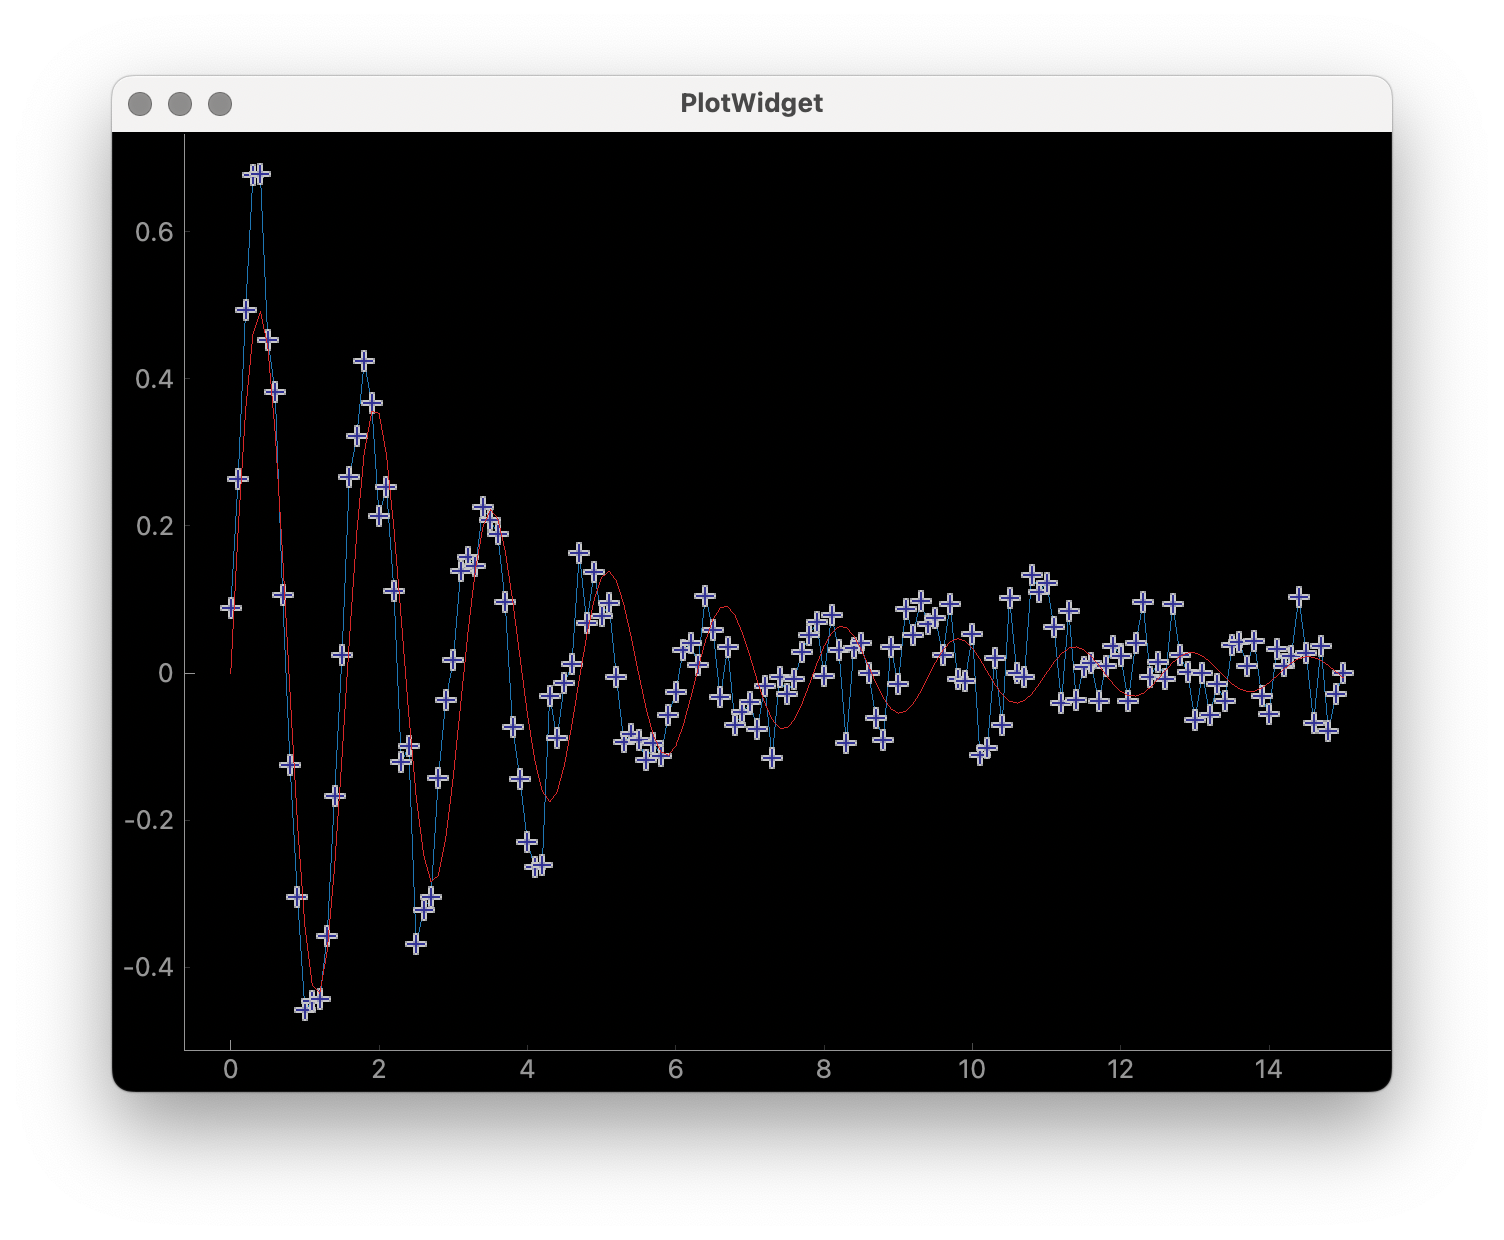
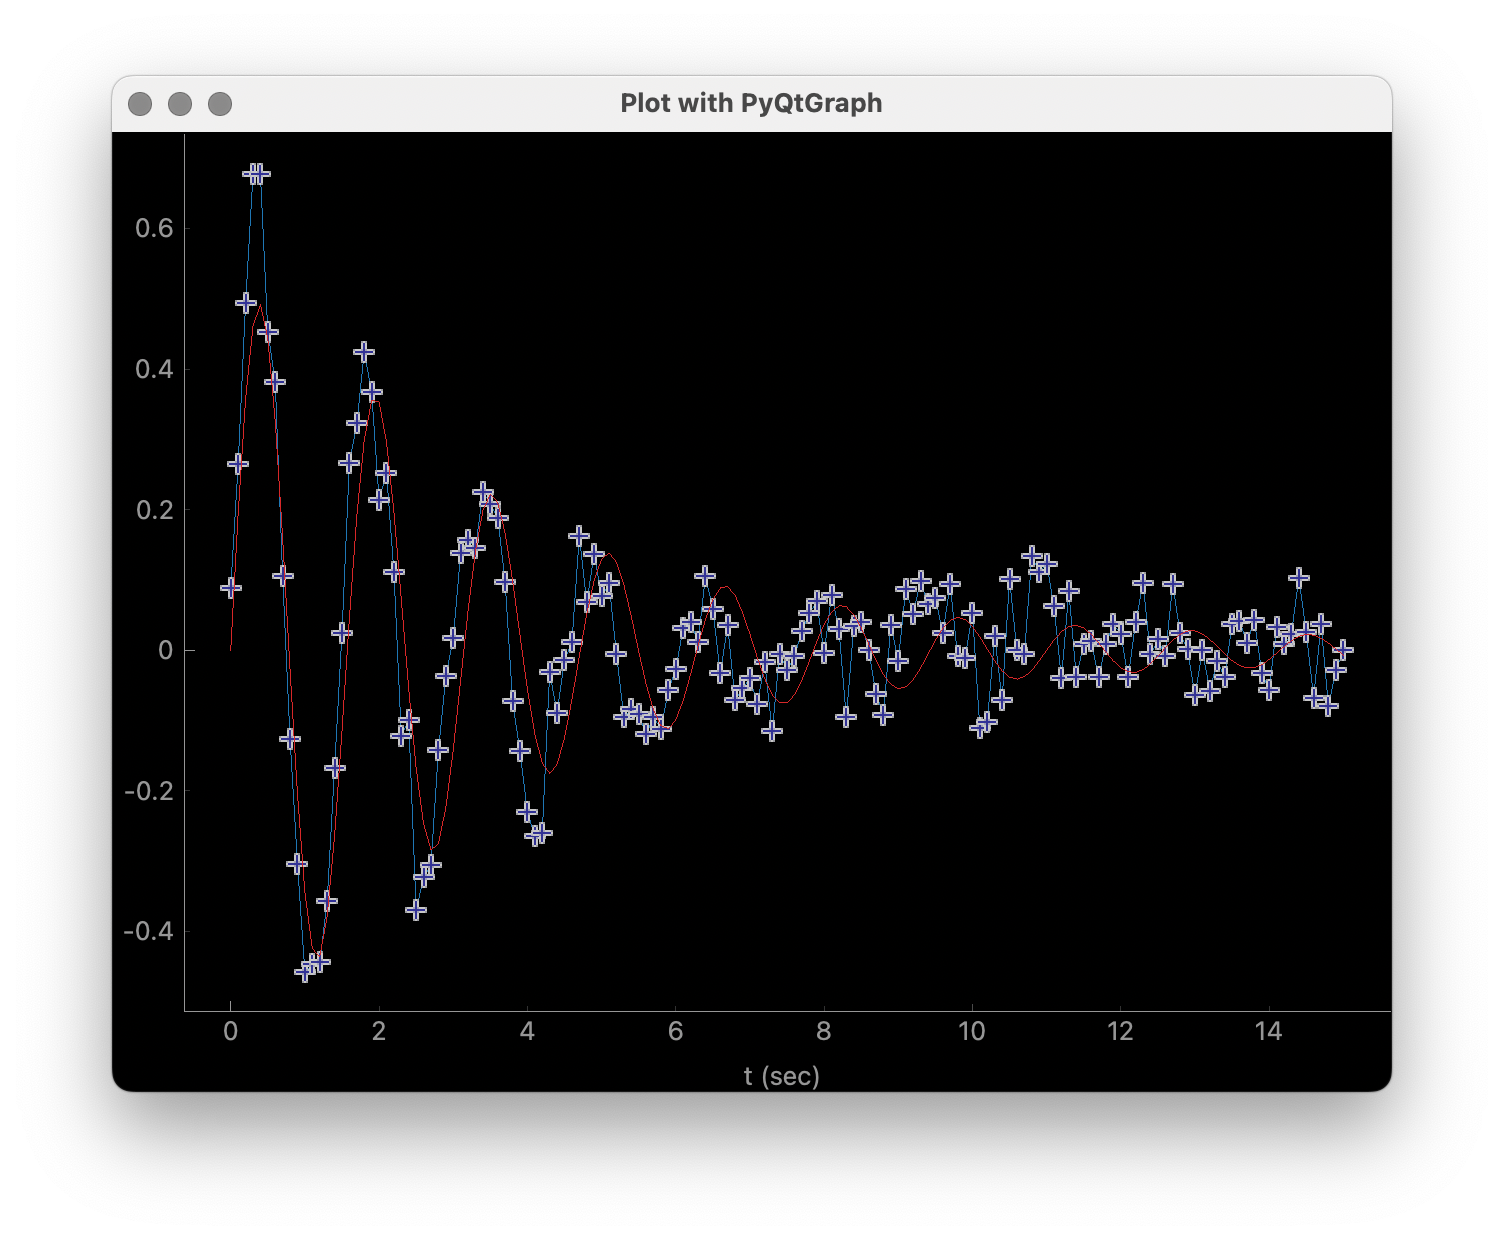
update doc

diff --git a/doc/comparisons.rst b/doc/comparisons.rst
@@ -266,6 +266,8 @@ Constructing the example plot above with `pyqtgraph` would look like::
 
     pwin = pg.plot(x, y, pen='#1f77b4', symbol='+')
     pwin.plot(x, m, pen='#d62728')
+    pwin.setWindowTitle('Plot with PyQtGraph')
+    pwin.setLabel(axis='bottom', text='t (sec)')
     pg.exec()
 
 
@@ -276,8 +278,8 @@ with the Qt world, I would happily say that someone more proficient with
 PyQt might be able to make excellent use of this.  I definitely see
 applications using this library to produce good visualizations of data.
 
-That aside, for brevity and clarity, this is very good (but notice that no
-labels are shown).  The resulting plot looks like
+That aside, for brevity and clarity, this is very good.  The resulting plot
+looks like
 
 .. _plot_compare_qt:
 
@@ -292,24 +294,11 @@ the data.  And, in fairness to the `pyqtgraph`, it is explicitly designed
 to do more than simple line plots.
 
 I find the quality of the Line plots to be somewhat worse than the plots
-made with matplotlib (including wxmplot).  Being not very familiar with
-`pyqtgraph`, I am not certain how to adjust things like margins and the
-sizes of markers and text, so I am willing to call some of these things a
-matter of taste and say they probably can be improved....
-
-Well, except for one important point. It seems that `pyqtgraph` does not
-really expect axes to be labeled.  There seems to be no simple methods for
-adding such labels, and very few of their examples show labeled axes or
-even legends identifying traces.  This is sort of surprising and should be
-a show-stopper for any scientist displaying data.  Plots without labeled
-axes should not be tolerated, even from 1st year college students, even for
-plots where the context of the plot would make those axes obvious to many
-people interpreting the plot. Scientific plots always require labeled axes.
-Pyqtgraph has a large number of examples with no labels, and makes setting
-labels very difficult.  Unless this is fixed, we must conclude that
-`pyqtgraph` is suitable for displaying graphical images, but it is not a
-tool that should be tolerated for displaying scientific data.
-
+made with matplotlib (including wxmplot).  The text is hard to read.  Being
+not very familiar with `pyqtgraph`, I am not certain how to adjust things
+like margins and the sizes of markers and text, so I am willing to call
+some of these things a matter of taste and say they might be possible to
+improve.
 
 
 Comparison with PyQtGraph/PythonGUIs
@@ -603,10 +592,9 @@ available for Python, many shown here are pretty poor, lacking in code
 brevity, plot quality, or interactivity.  If you are are using web
 applications or *want to* embed plots in a web browser, `plotly` looks like
 a pretty good choice.  If you are using `PyQt`, `pyqtgraph` is an
-interesting alternative, but it fails spectacularly at a basic requirement
-for scientific plots that all axes must be labeled and traces identified.
-For maximum portability, plain `matplotlib.pyplot` is an acceptable choice,
-though it offers relatively little in the way of interactivity.  If you are
-using looking for interactive exploration of your data, we hope you find
-that `wxmplot` offers important capabilities that enable script writers and
-end-users of applications to have rich interactions with their data.
+interesting alternative. For maximum portability, plain `matplotlib.pyplot`
+is an acceptable choice, though it offers relatively little in the way of
+interactivity.  If you are using looking for interactive exploration of
+your data, we hope you find that `wxmplot` offers important capabilities
+that enable script writers and end-users of applications to have rich
+interactions with their data.
